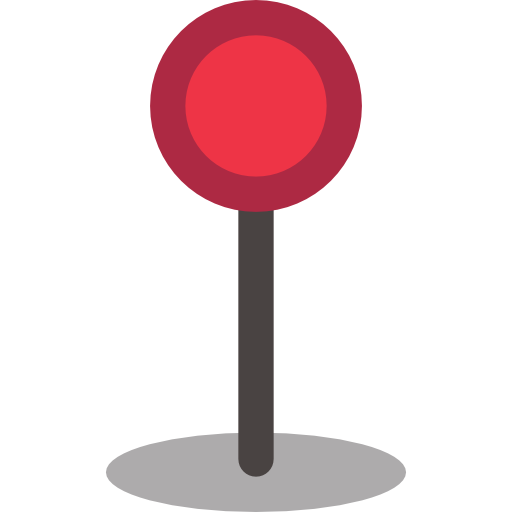
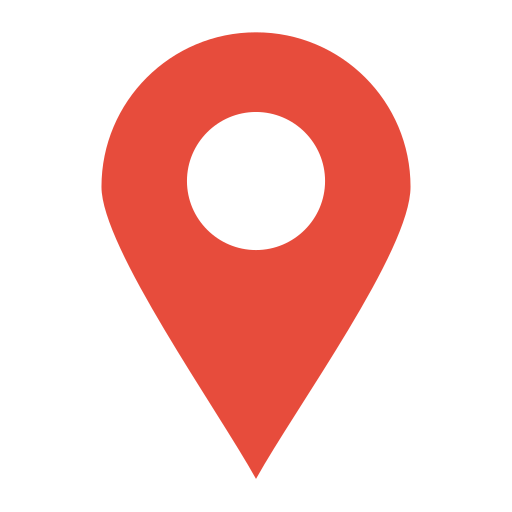
마커 UI & 비밀댓글 UI

diff --git a/src/routes/Detail.js b/src/routes/Detail.js
@@ -592,11 +592,16 @@ function Detail() {
                   <div>
                     <div style={{ display: "flex", justifyContent: "space-between", width: "950px", marginBottom: "30px" }}>
                       <div style={{ fontSize: "16px", display: "flex", flexDirection: "column" }}>
-                        <div>
-                          {comment.secret && <AiOutlineLock />}
-                          {comment.user.nickname}
+                        {comment.user.nickname}
+                        <div style={{ fontSize: "12px", color: "grey", marginTop: "5px" }}>
+                          {comment.secret ? (
+                            <div>
+                              <AiOutlineLock /> 비밀 {comment.createdAt}
+                            </div>
+                          ) : (
+                            <div>{comment.createdAt}</div>
+                          )}
                         </div>
-                        <div style={{ fontSize: "10px", marginTop: "5px" }}>{comment.createdAt}</div>
                       </div>
                       <div class="btns">
                         {comment.user.username == username ? (
@@ -653,7 +658,7 @@ function Detail() {
                       </div>
                       {comment.secret && !post.isMyPost && comment.user?.username != username ? (
                         <div>
-                          <div style={{ fontSize: "20px", fontWeight: "400" }} id={"content" + i}>
+                          <div style={{ fontSize: "20px", fontWeight: "400", color: "grey" }} id={"content" + i}>
                             비밀댓글입니다.
                           </div>
                         </div>

diff --git a/src/Components/Marker.js b/src/Components/Marker.js
@@ -3,7 +3,7 @@ function Marker(props) {
   return (
     <div>
       <div style={{ position: "absolute", bottom: "0px", left: "-20px" }}>
-        <img src="/img/marker.png" alt="marker" width="30px" />
+        <img src={props.target ? "/img/pin.png" : "/img/marker.png"} alt="marker" width="30px" />
       </div>
       {props.target && <InfoWindow post={props.place} />}
     </div>

diff --git a/src/routes/MapSearch.js b/src/routes/MapSearch.js
@@ -80,7 +80,6 @@ function MapSearch() {
         >
           {markers[0] &&
             markers.map((marker) => {
-              console.log(marker.id);
               return <Marker key={marker.id} lat={marker.location.latitude} lng={marker.location.longitude} place={marker} target={marker.id === target}></Marker>;
             })}
         </GoogleMap>
